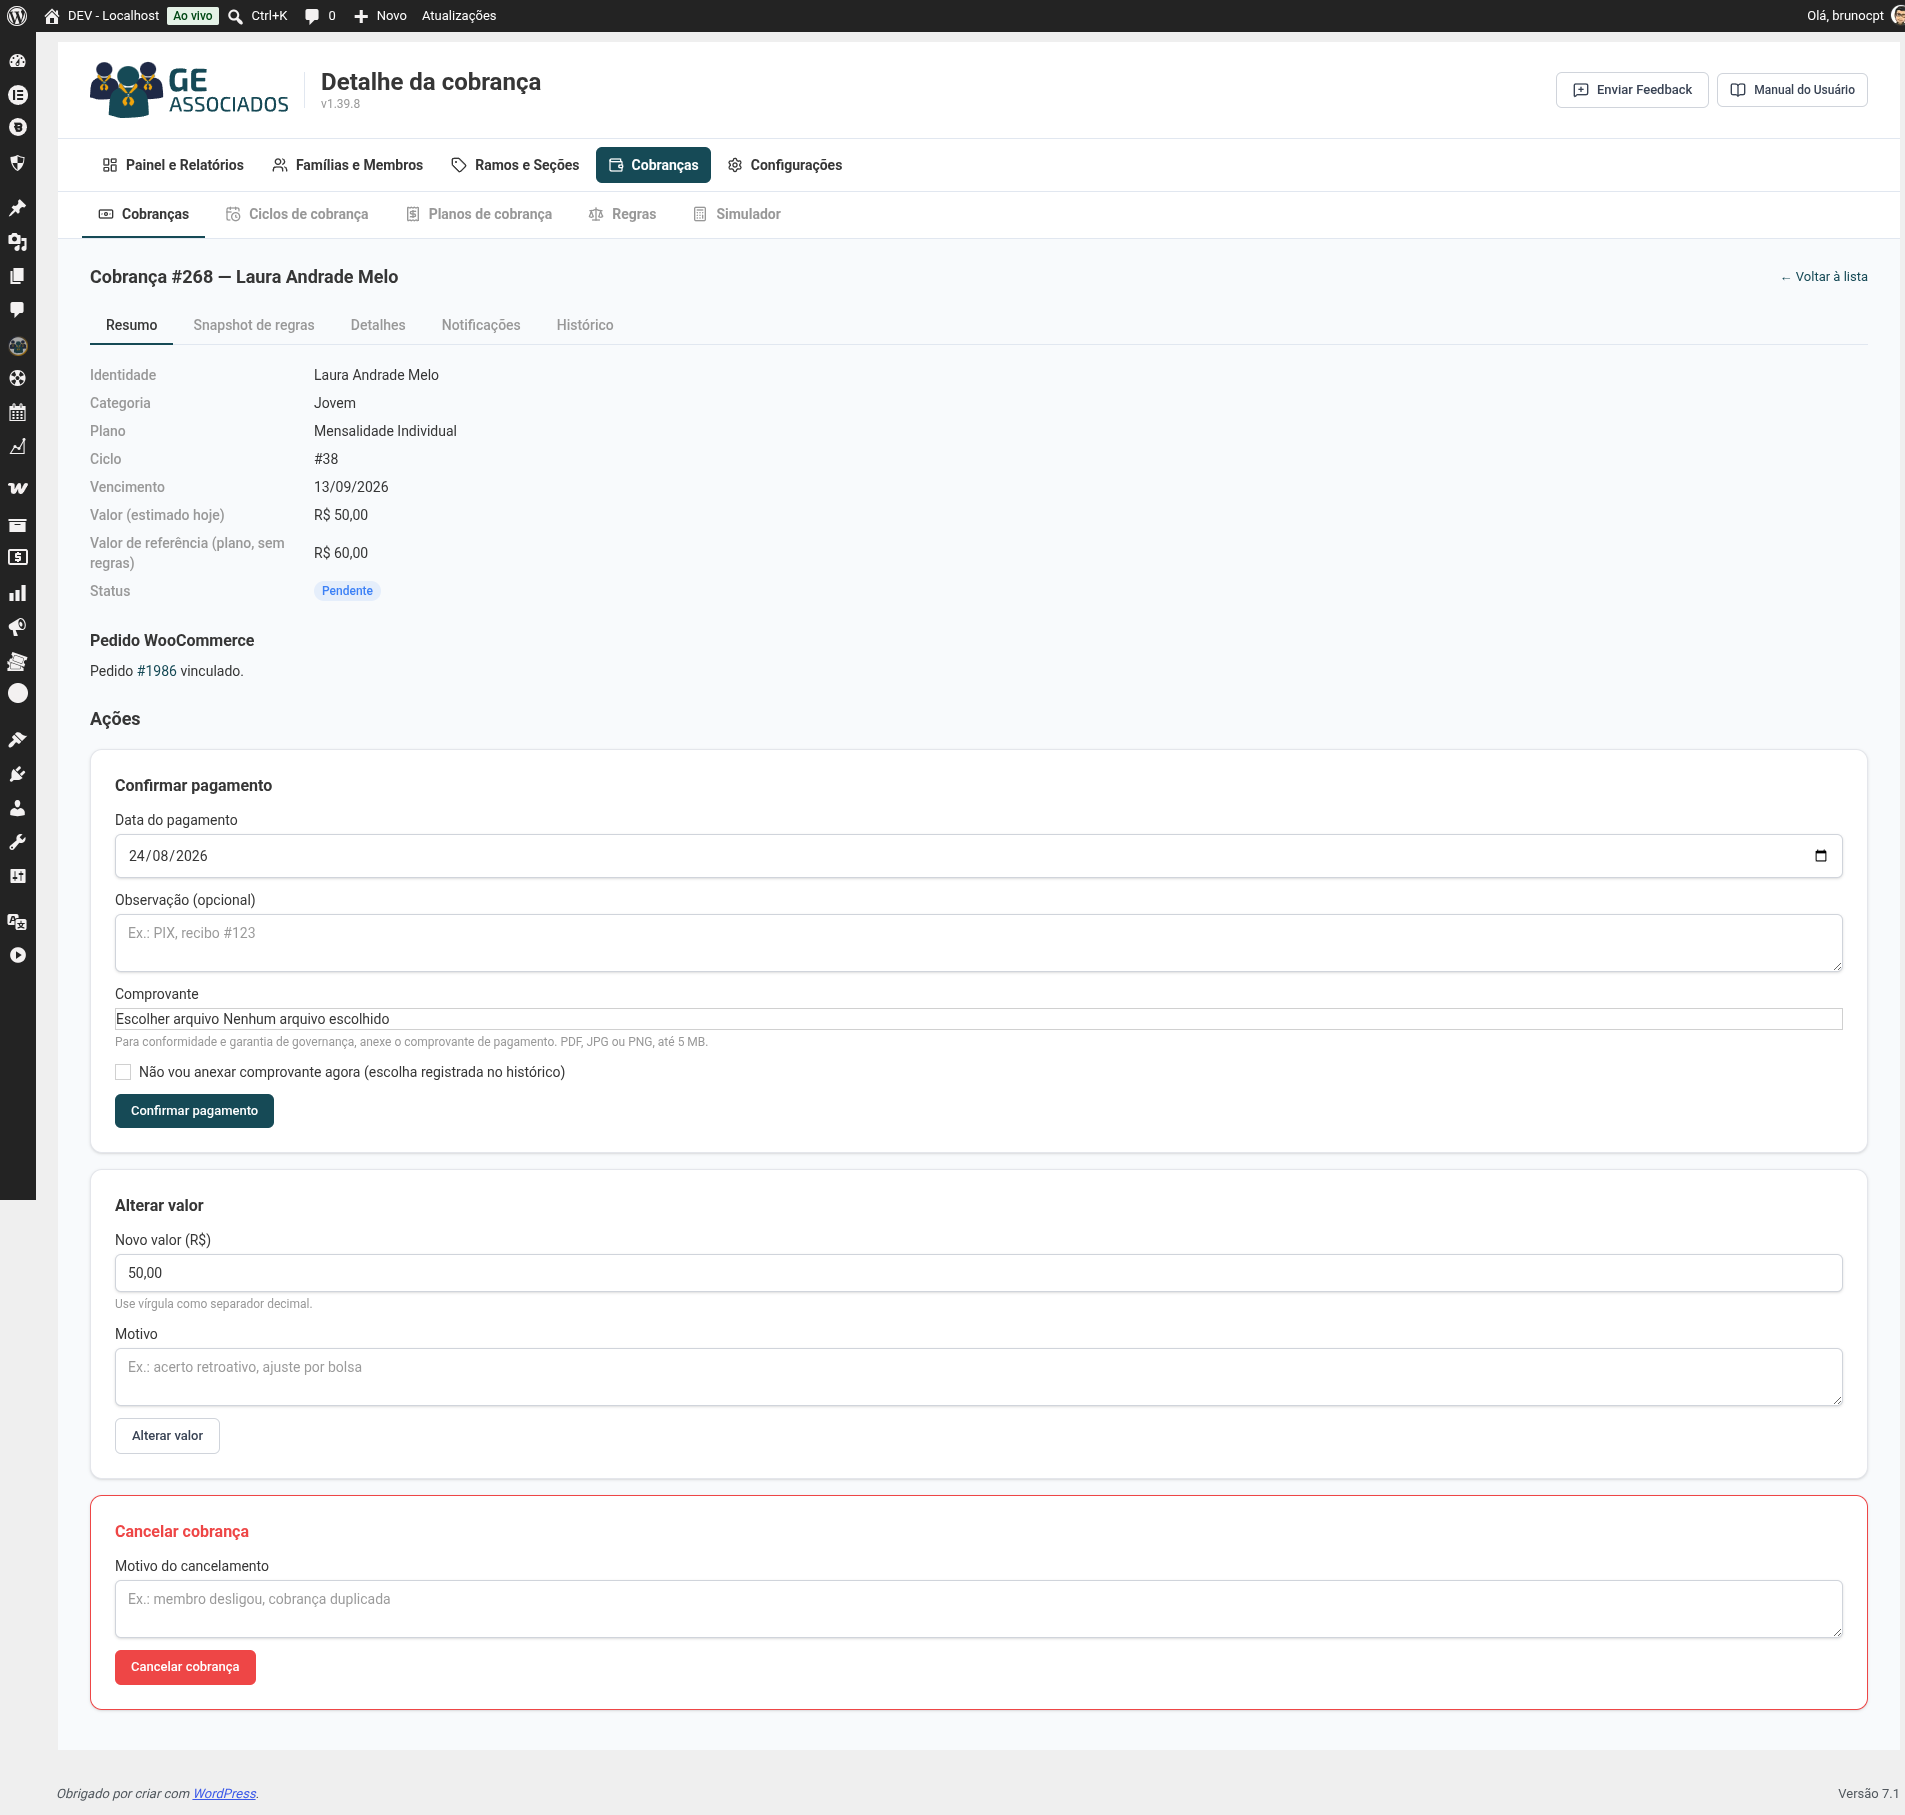
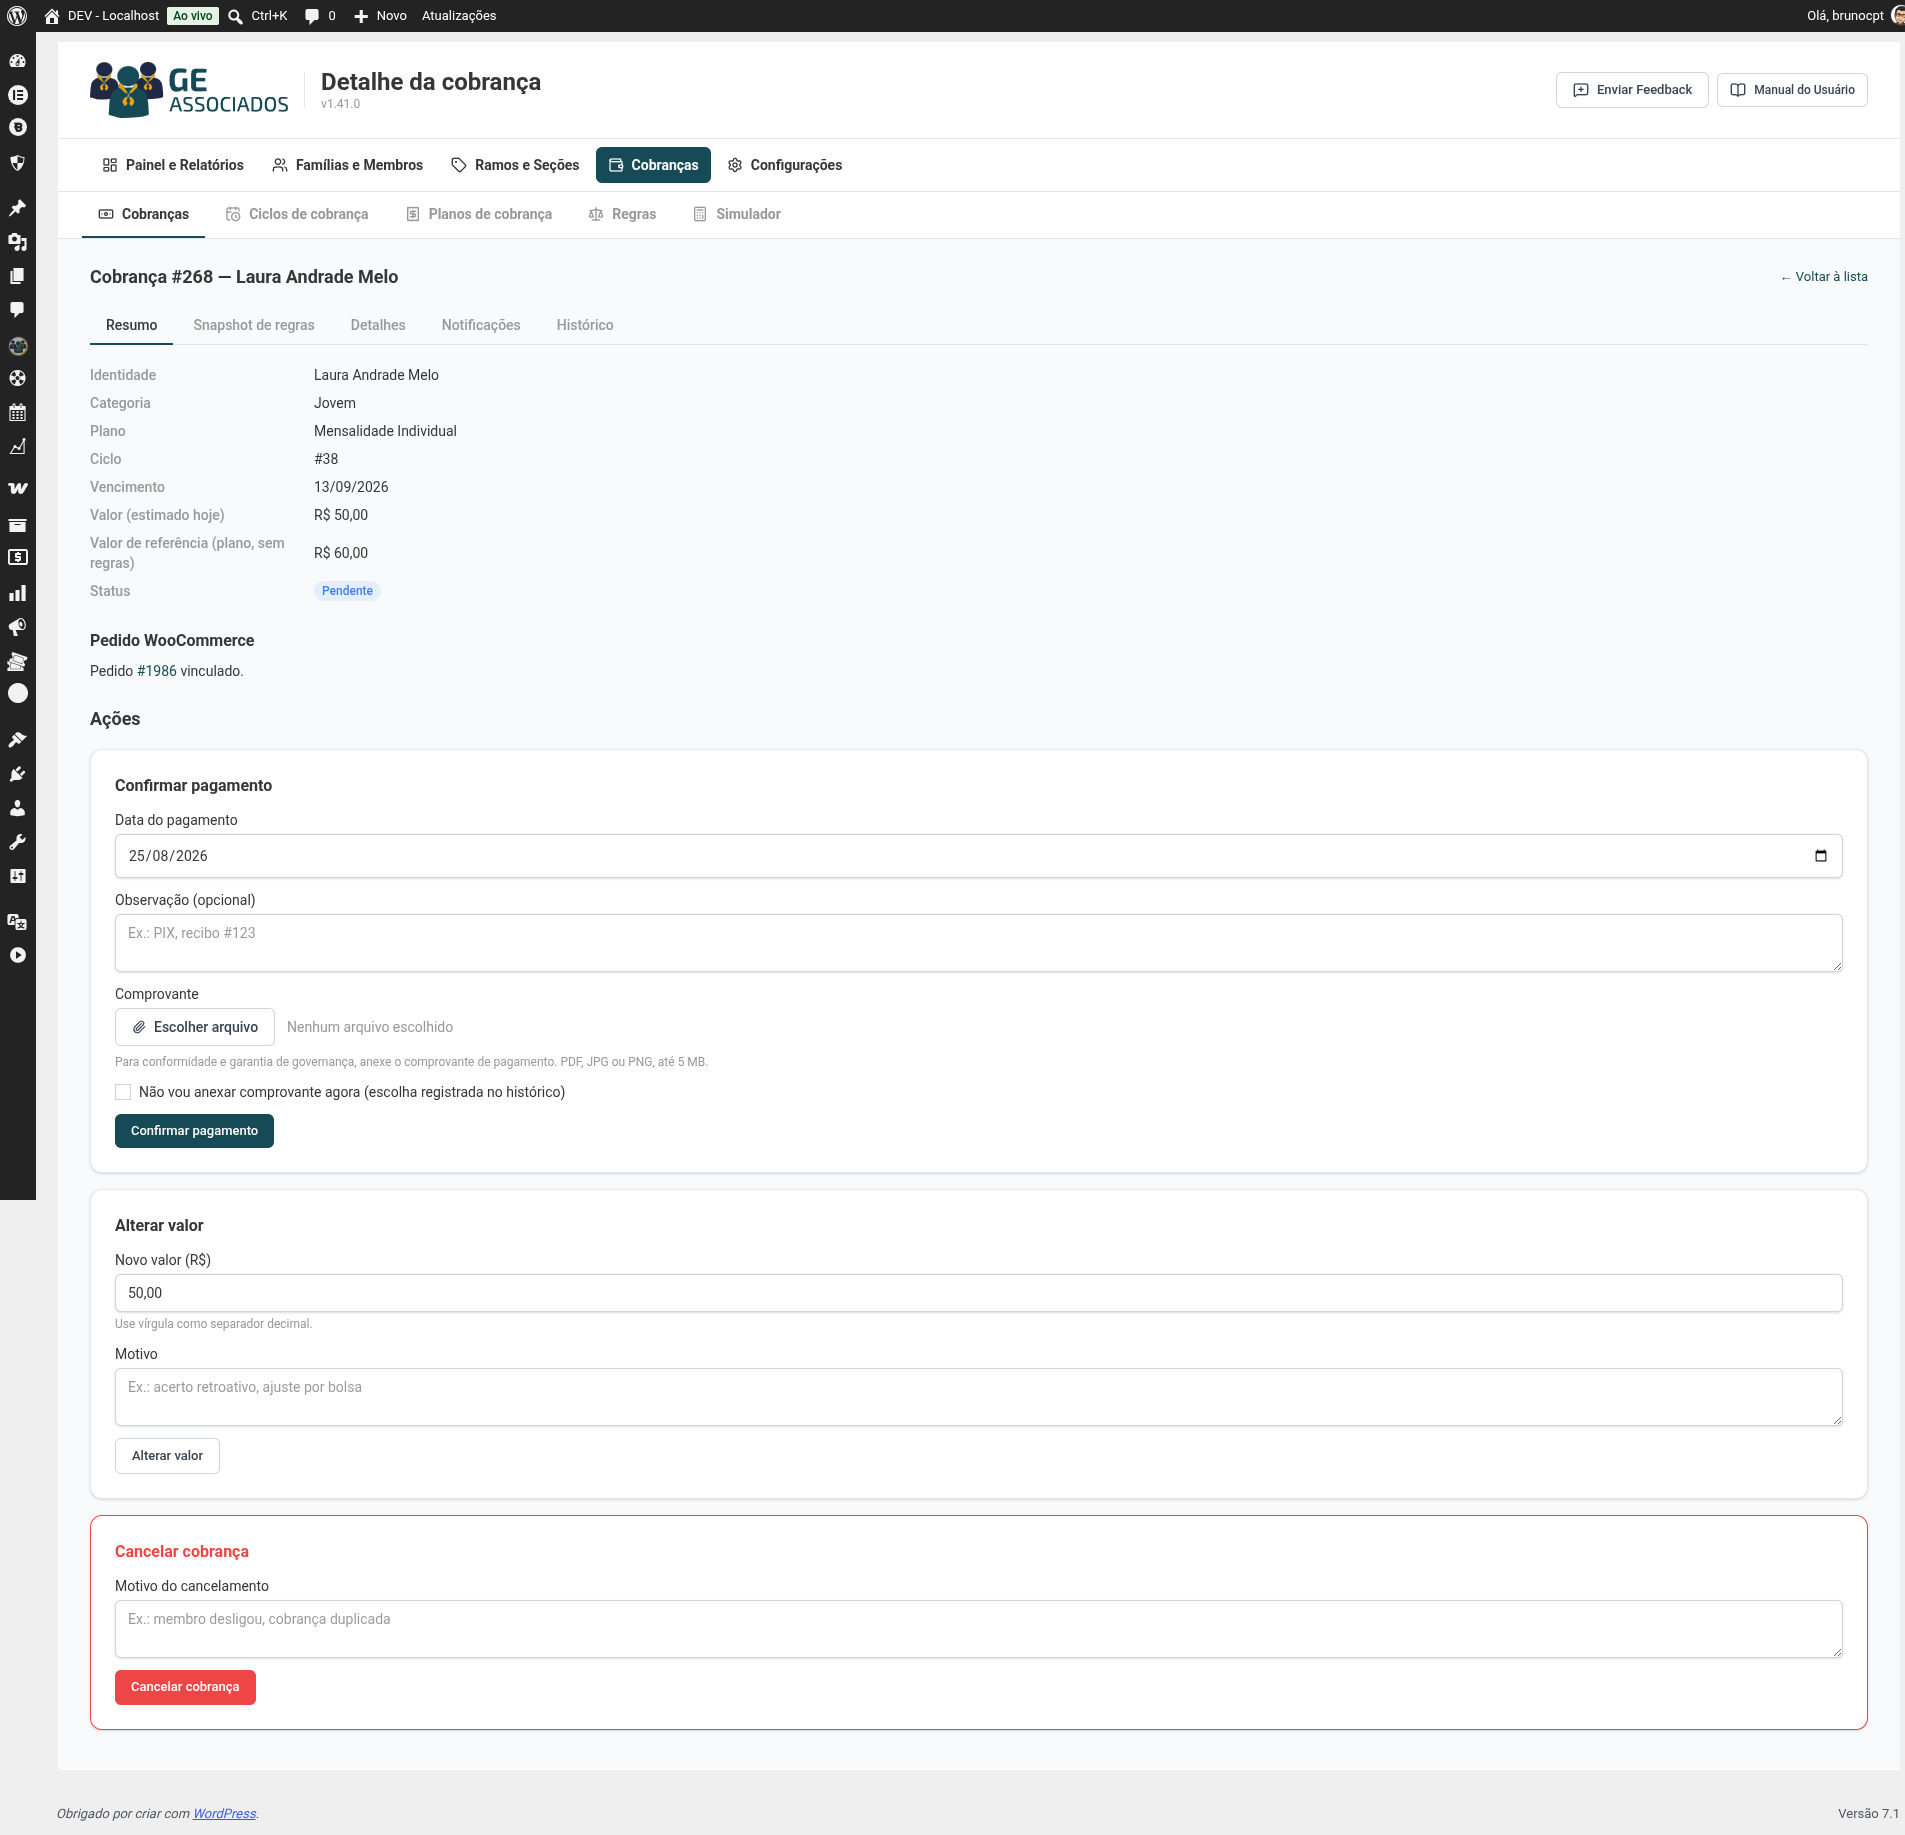
docs(manual): documenta o envio de feedback e atualiza as capturas da v1.41.0
Página nova sobre o botão Enviar Feedback — o formulário não estava
documentado em lugar nenhum, e agora tem tipo, anexos, depoimento com
autorização e a lista do que acompanha a mensagem.

Inclui um aviso sobre anexar print: uma imagem da lista de associados leva
junto nome, CPF, e-mail e situação financeira de gente real, e o anexo sai do
site do grupo. O texto da página de privacidade sobre esse fluxo depende de
decisão e está registrado à parte.

Capturas refeitas na v1.41.0: configuracao.png e cobranca-detalhe.png ainda
mostravam o controle antigo do navegador no campo de arquivo; feedback-modal
é nova, com o e-mail mascarado, porque o campo vem preenchido com o de quem
está logado e a imagem é publicada.

diff --git a/modulos/feedback.md b/modulos/feedback.md
@@ -1,0 +1,84 @@
+---
+title: Enviar feedback
+parent: Módulos
+nav_order: 23
+---
+
+# Enviar feedback
+
+**Onde encontrar:** botão **Enviar Feedback**, no cabeçalho, em qualquer tela do plugin.
+
+![Formulário de feedback, com tipo, mensagem, e-mail para resposta, anexos e a lista do que será enviado](/assets/img/feedback-modal.png)
+
+## Por que isto importa
+
+É o canal direto com a equipe que mantém o plugin — sem precisar abrir e-mail, sem
+precisar explicar em que tela você estava. O formulário já leva junto a versão do plugin,
+do WordPress e do PHP, então você não precisa descobrir isso sozinho para relatar um
+problema.
+
+Anexar uma imagem da tela costuma valer mais do que um parágrafo de explicação: mostra
+exatamente o que você via, no estado em que estava.
+
+## Passo a passo
+
+1. Clique em **Enviar Feedback**, no canto superior direito de qualquer tela.
+2. Escolha o **Tipo**: **Sugestão** (padrão), **Dúvida**, **Bug**, **Depoimento** ou
+   **Outros**.
+3. Escreva a **Mensagem** — é o único campo obrigatório.
+4. Confira o **E-mail para resposta**: já vem preenchido com o seu e-mail de acesso ao
+   WordPress, mas você pode trocar por outro.
+5. Se ajudar a explicar o que aconteceu, clique em **Adicionar arquivos** e anexe prints,
+   PDF ou planilha.
+6. Se quiser, marque **Incluir dados da minha organização** — agiliza o atendimento porque
+   a equipe já sabe de qual grupo se trata, sem precisar perguntar.
+7. Antes de enviar, abra **O que será enviado** para ver exatamente o que vai junto com a
+   mensagem.
+8. Clique em **Enviar**. Uma cópia da mensagem chega no seu e-mail.
+
+## Escolhendo "Depoimento"
+
+Esse tipo abre dois campos a mais — **Nome** e **Cargo**, os dois opcionais — e uma
+autorização: **"Autorizo a RIT a publicar este depoimento (com meu nome/cargo, se
+informados)."** Sem marcar essa caixa, o depoimento não é usado publicamente.
+
+## Anexos
+
+Até **5 arquivos**, **5 MB** cada, **15 MB** no total. Aceita imagem, PDF, documento e
+planilha. Um arquivo maior que o limite, de um tipo não aceito, ou que estoure o total é
+recusado na hora, com o motivo explicado — antes de você perder tempo esperando o envio.
+
+{: .warning }
+**Antes de anexar um print, olhe o que está na tela.** Uma imagem da lista de associados
+ou de cobranças leva junto nome, CPF, e-mail e situação financeira de gente real — e o
+anexo sai do seu site e chega à caixa de e-mail da equipe. Se der para recortar só o
+trecho com o problema, ou ocultar as colunas com dados pessoais, melhor. Na dúvida,
+descreva em texto: quase sempre basta.
+
+## Exemplo
+
+O responsável pela tesouraria do Grupo Trilha Verde tenta confirmar um pagamento e a tela
+mostra um erro que ele não entende. Ele clica em **Enviar Feedback**, escolhe o tipo
+**Bug**, escreve o que tentava fazer, anexa um print da mensagem de erro, e marca
+**Incluir dados da minha organização** para a equipe já saber de qual grupo se trata.
+
+## Dicas e armadilhas
+
+- **Prefira "Bug" a "Dúvida" quando algo não funcionou como deveria** — ajuda a equipe a
+  priorizar. Se você só não sabe como fazer algo, "Dúvida" é mais rápido de responder.
+- **A caixa de dados da organização vem desmarcada por padrão.** Ela só é lida por quem
+  atende o chamado, mas a escolha de compartilhar é sua — marque quando quiser um
+  atendimento mais rápido, deixe desmarcada se preferir manter a mensagem só com o que
+  você escreveu.
+- **Anexo enviado errado não tem como ser removido depois** — confira a lista de arquivos
+  antes de clicar em Enviar. Dá para tirar um anexo da lista (ícone de remover ao lado do
+  nome) enquanto o formulário ainda está aberto.
+
+## Quando dá errado
+
+- **"Tipo de arquivo não permitido"** — o arquivo tem uma extensão fora da lista aceita.
+  Salve em PDF, imagem ou planilha e tente de novo.
+- **Mensagem de tamanho excedido** (5 MB por arquivo ou 15 MB no total) — remova um anexo
+  ou reduza o tamanho do arquivo antes de enviar.
+- **Falha ao enviar** — o texto e os anexos continuam no formulário; você não precisa
+  reescrever nada, é só tentar enviar de novo.

diff --git a/novidades.md b/novidades.md
@@ -8,6 +8,19 @@ nav_order: 11
 Um resumo, em linguagem simples, do que mudou nas versões mais recentes — o que interessa
 para quem usa o plugin no dia a dia, não o registro técnico completo.
 
+## Enviar Feedback ganhou tipo, anexos e cópia por e-mail
+
+O formulário de **Enviar Feedback**, no cabeçalho de qualquer tela, agora deixa escolher
+o tipo (sugestão, dúvida, bug, depoimento ou outros), anexar arquivos (até 5, 5 MB cada) e
+optar por incluir os dados da organização para agilizar o atendimento. Quem envia recebe
+uma cópia da mensagem por e-mail. Veja [Enviar feedback](/modulos/feedback/).
+
+## Botão de escolher arquivo ficou mais claro
+
+Nas telas onde se envia um arquivo — importação de planilha, importação de configuração e
+comprovante de pagamento —, o controle cinza do navegador deu lugar a um botão com rótulo
+próprio, mais fácil de identificar.
+
 ## Vencimento passa a considerar o dia inteiro
 
 A comparação de vencimento agora olha para o **dia**, não para um horário exato. Antes,

diff --git a/problemas-solucoes.md b/problemas-solucoes.md
@@ -22,4 +22,6 @@ nav_order: 10
 
 {: .note }
 Não encontrou o seu caso aqui? Veja o módulo específico em [Módulos](/modulos/) — a
-tela costuma explicar o aviso no próprio contexto em que ele aparece.
+tela costuma explicar o aviso no próprio contexto em que ele aparece. Continuando sem
+solução, use [Enviar feedback](/modulos/feedback/) — anexar um print da tela ajuda muito
+a equipe a entender o problema.

diff --git a/modulos.md b/modulos.md
@@ -41,3 +41,6 @@ consultar uma tela específica.
 
 ## Primeira ativação
 - [Assistente](/modulos/assistente/)
+
+## Ajuda
+- [Enviar feedback](/modulos/feedback/)
